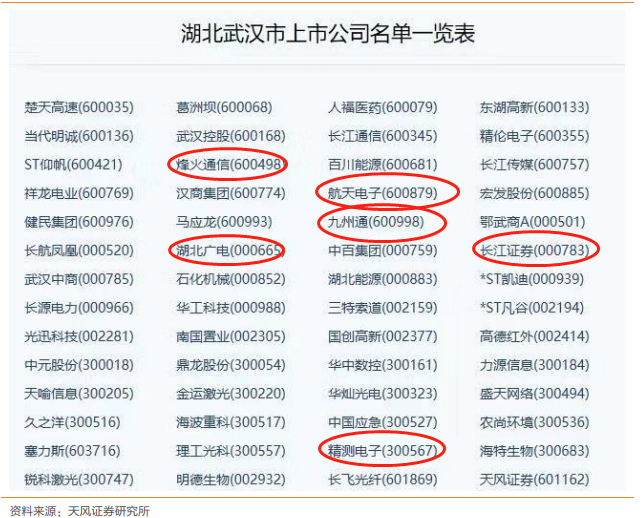
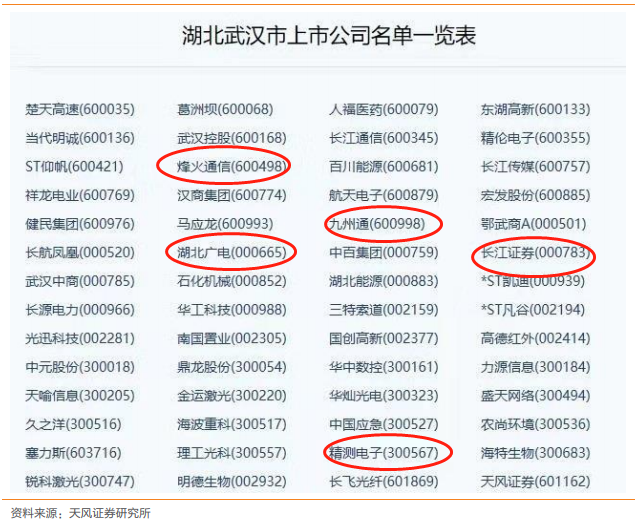
Site updated: 2020-02-01 15:10:36

diff --git a/2020/01/31/2019-nCoV/index.html b/2020/01/31/2019-nCoV/index.html
@@ -28,8 +28,9 @@
 <meta property="og:image" content="http://yoursite.com/pic/2020020103.png">
 <meta property="og:image" content="http://yoursite.com/pic/2020020104.png">
 <meta property="og:image" content="http://yoursite.com/pic/2020020105.png">
+<meta property="og:image" content="http://yoursite.com/pic/2020020106.png">
 <meta property="article:published_time" content="2020-01-31T13:04:36.836Z">
-<meta property="article:modified_time" content="2020-01-31T18:32:19.471Z">
+<meta property="article:modified_time" content="2020-02-01T07:10:13.218Z">
 <meta property="article:author" content="骑驴上东平">
 <meta property="article:tag" content="策略研究">
 <meta name="twitter:card" content="summary">
@@ -237,6 +238,7 @@
 <p>医疗相关标的：医用防护耗材类（振德转债、英科转债）、糖皮质激素（现代转债）</p>
 <p>武汉相关上市公司名单（红色为有转债）：</p>
 <p><img src="/pic/2020020105.png" alt=""></p>
+<p><img src="/pic/2020020106.png" alt=""></p>
 <hr>
 <p>参考：<br>【国金研究】以史为鉴，复盘03年“非典”对当前A股借鉴意义<br>【天风策略丨深度】疫情如何影响行业配置？——以“非典”为鉴，抓核心矛盾<br>【华泰固收|张继强团队】新冠疫情对经济和市场冲击推演——经济“弱企稳”遭遇疫情“强干扰”<br>天风证券宏观点评：武汉封城将如何影响制造业？<br>【招商策略】新冠疫情对A股冲击三个缓和时间点及应对——观策天夏（十）<br>2003年，非典前与非典后的A股市场（国信策略）</p>
 
